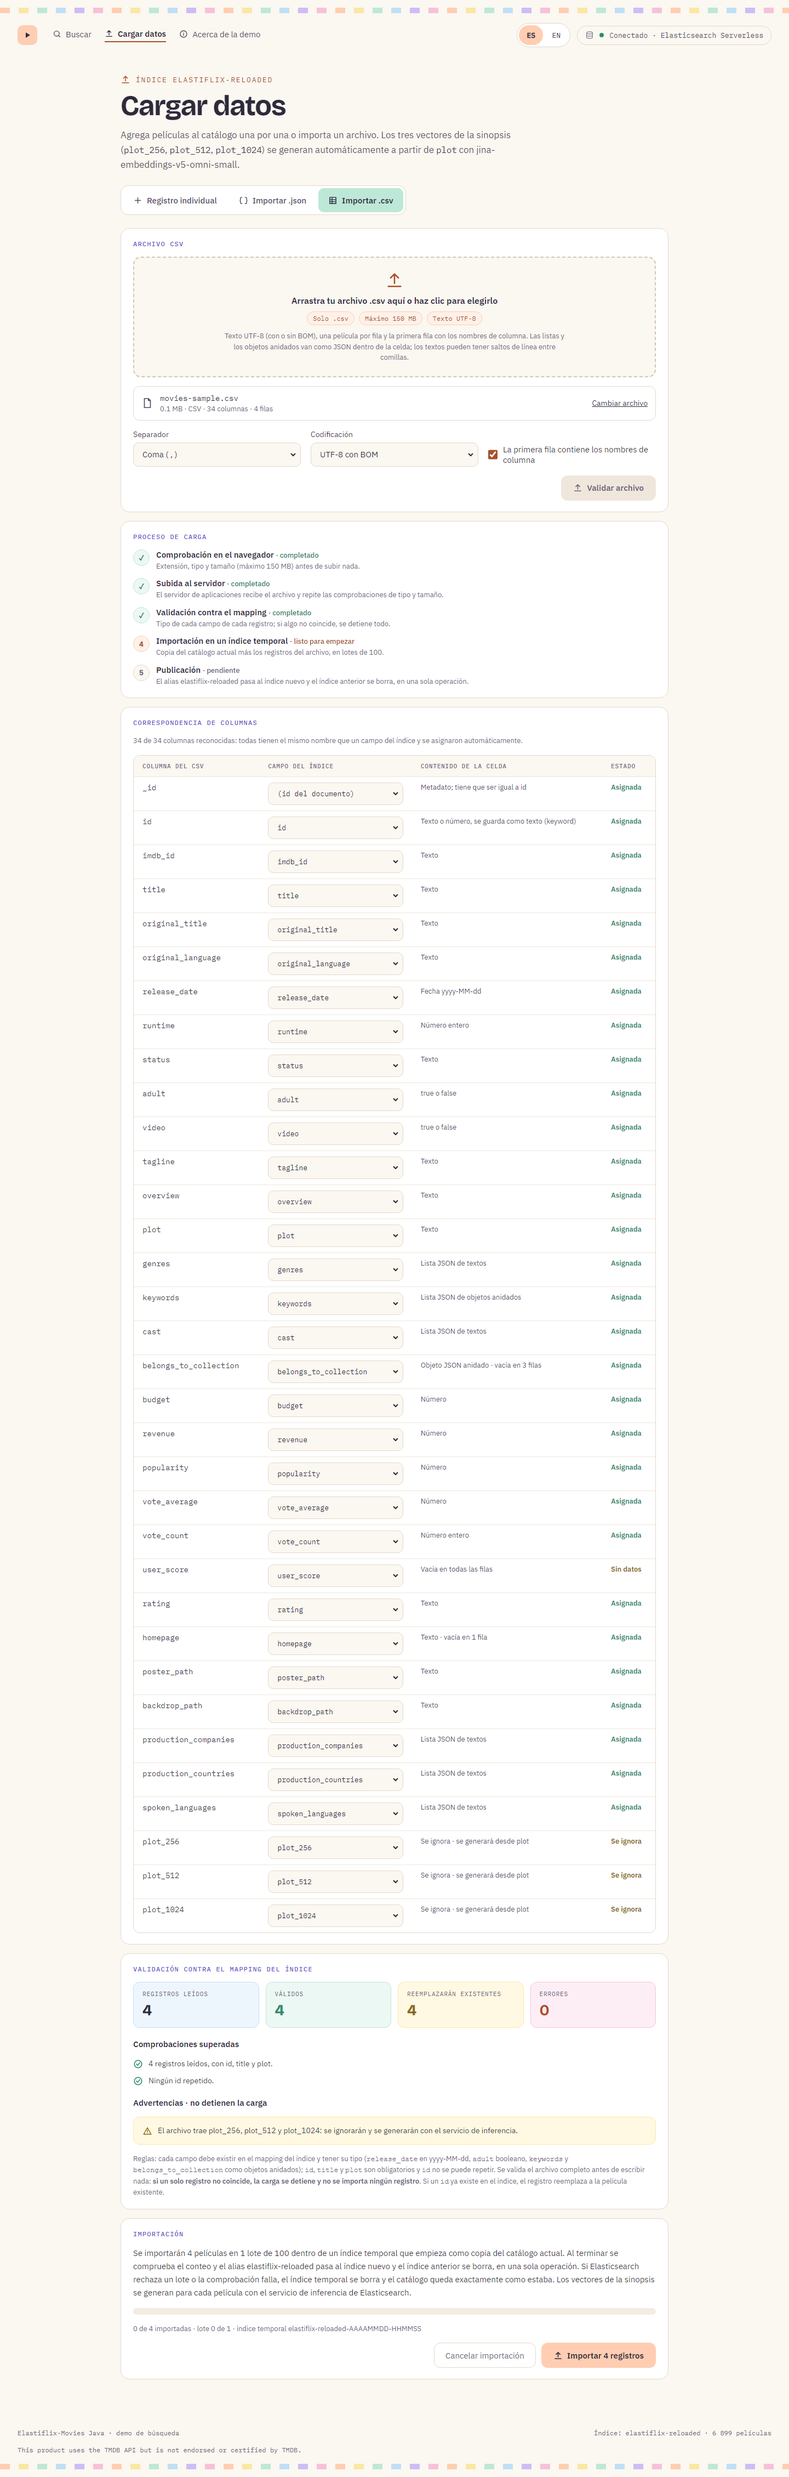
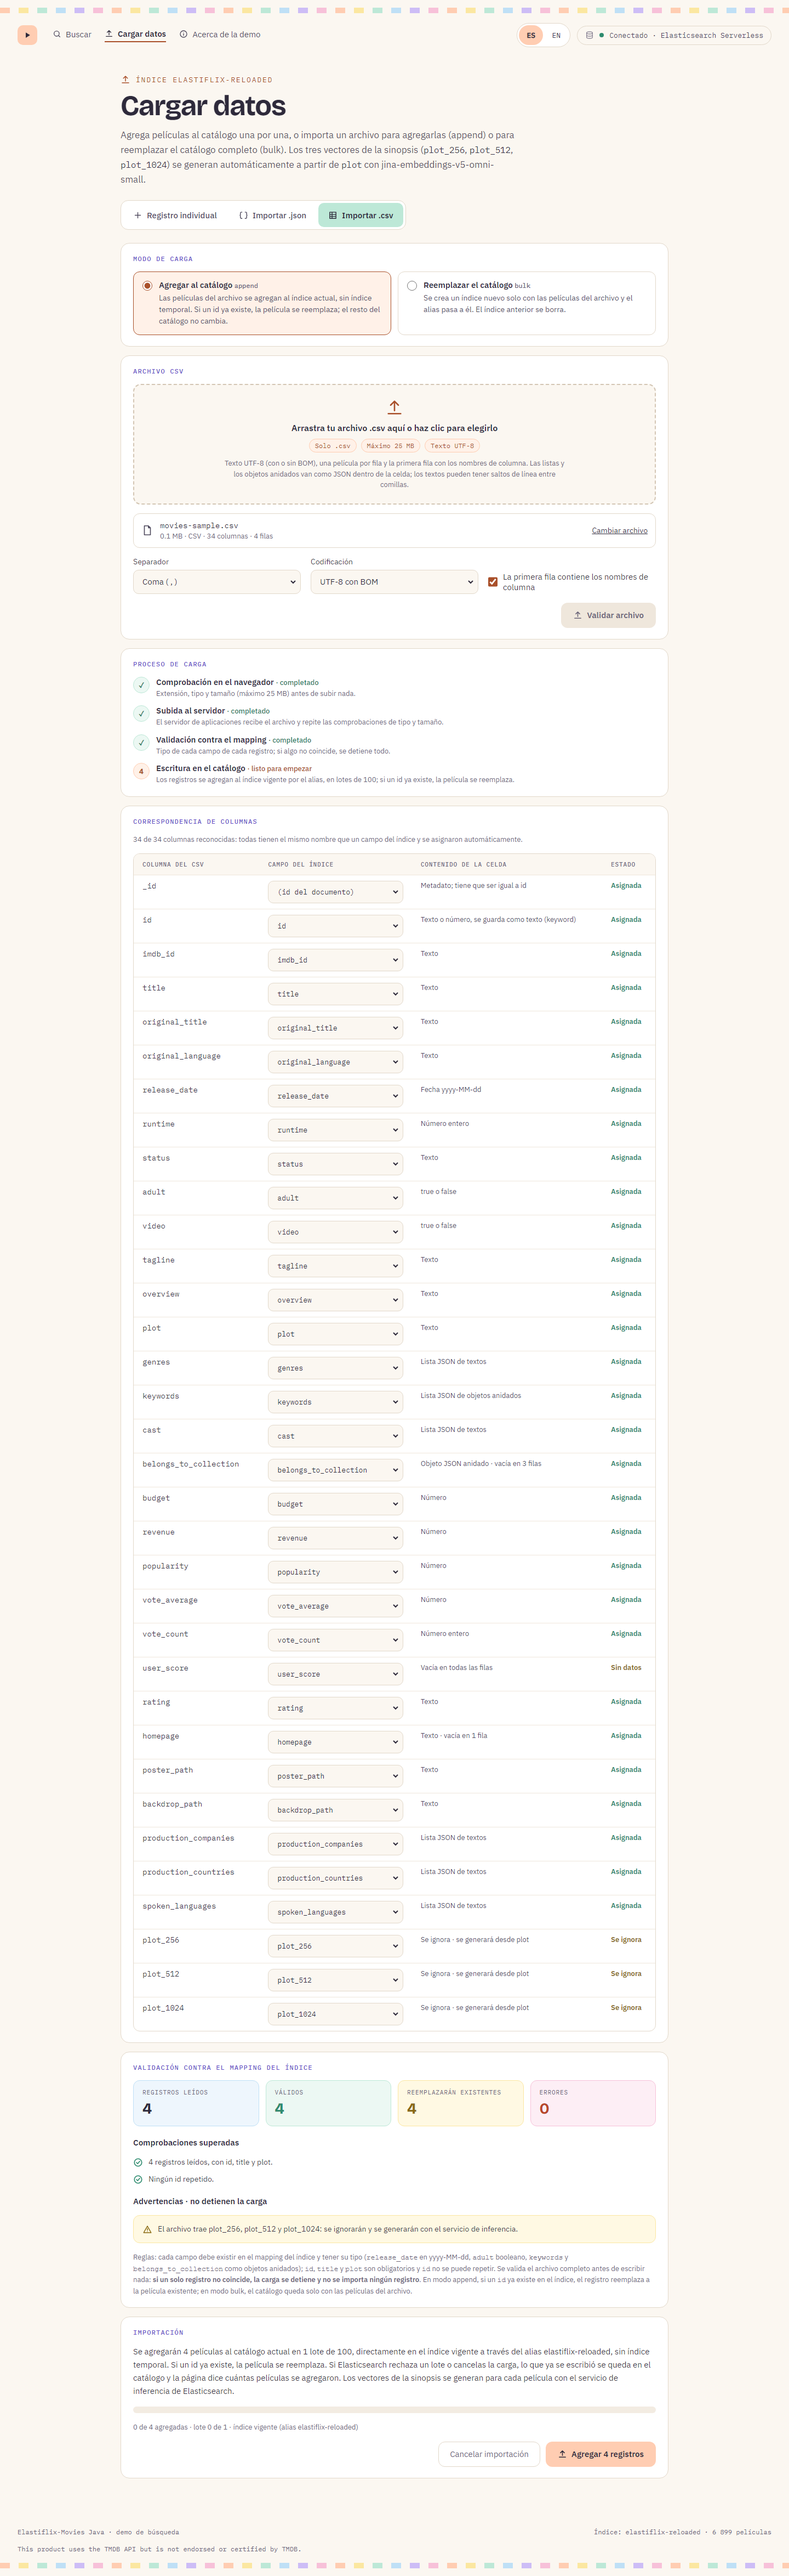
docs: capturas de «Cargar datos» con el modo de carga y dos textos del mockup que faltaban
La nota «Reglas» dice qué pasa en cada modo y un archivo bloqueado dice
«0 de N importadas» también en append, como el mockup.

Changed region(s): [[0.1562, 0.0, 0.8438, 0.9677], [0.7812, 0.3122, 0.8125, 0.7804], [0.6875, 0.1873, 0.8438, 0.2497]]

diff --git a/elastiflix-web/src/test/java/com/bigfito/elastiflix/web/ingest/IngestPageTest.java b/elastiflix-web/src/test/java/com/bigfito/elastiflix/web/ingest/IngestPageTest.java
@@ -187,6 +187,23 @@ class IngestPageTest {
     }
 
     @Test
+    @DisplayName("un archivo bloqueado dice «0 de N importadas» también en append, y las reglas nombran los dos modos")
+    void shouldUseTheSameBlockedTextsInBothModes() throws Exception {
+        when(ingest.job(JOB)).thenReturn(job("append", "invalido", "csv", 512, 17, 23, List.of(), List.of(), "", ""));
+
+        mvc.perform(get("/cargar/trabajos/" + JOB))
+                .andExpect(jsonPath("$.texts.progressText").value("0 de 512 importadas"))
+                .andExpect(jsonPath("$.texts.importLabel").value("Importación bloqueada"));
+        mvc.perform(get("/cargar"))
+                .andExpect(content().string(containsString("En modo append, si un <code>id</code> ya existe en el "
+                        + "índice, el registro reemplaza a la película existente; en modo bulk, el catálogo queda solo "
+                        + "con las películas del archivo.")));
+        mvc.perform(get("/cargar").param("lang", "en"))
+                .andExpect(content().string(containsString("in bulk mode, the catalog keeps only the movies in the "
+                        + "file.")));
+    }
+
+    @Test
     @DisplayName("append detenido o terminado: la página dice cuántas se agregaron de cuántas")
     void shouldSayHowManyWereAddedWhenTheAppendEnds() throws Exception {
         when(ingest.job(JOB)).thenReturn(appendEnded("cancelado", 200, "EFX-IMP-009"));

diff --git a/elastiflix-web/src/main/java/com/bigfito/elastiflix/web/ingest/JobTexts.java b/elastiflix-web/src/main/java/com/bigfito/elastiflix/web/ingest/JobTexts.java
@@ -150,11 +150,11 @@ public record JobTexts(
         }
 
         String progressText(String alias) {
+            if (INVALID.equals(job.status())) {
+                return msg("ingest.job.progress.done", number(job.written()), number(job.fileCount()));
+            }
             String suffix = append() ? ".append" : "";
             String done = msg("ingest.job.progress.done" + suffix, number(job.written()), number(job.fileCount()));
-            if (INVALID.equals(job.status())) {
-                return done;
-            }
             String target = append() || !job.tempIndex().isEmpty()
                     ? targetOf(alias) : alias + "-AAAAMMDD-HHMMSS";
             return msg("ingest.job.progress.running" + suffix, done,

diff --git a/progreso/INDICE.md b/progreso/INDICE.md
@@ -13,8 +13,8 @@
 - **Diseño:** [`docs/diseno/10.md`](../docs/diseno/10.md)
 - **Estado:** [`progreso/10.md`](10.md)
 - **Tarea actual:** ninguna
-- **Próximo paso:** no hay requerimientos pendientes en PLAN; queda por decidir con Adolfo si se vuelven a tomar las capturas de «Cargar datos» (`docs/capturas/`), que todavía no muestran la tarjeta «Modo de carga».
-- **Última actualización:** 2026-10-21 22:01 UTC
+- **Próximo paso:** que Adolfo apruebe las 6 capturas nuevas de «Cargar datos» (`docs/capturas/cargar-*.png`); no hay requerimientos pendientes en PLAN.
+- **Última actualización:** 2026-10-21 22:05 UTC
 
 ## Fases
 
@@ -96,6 +96,7 @@
 | 2026-10-21 | Cierre y fusión de la Fase 9 (Requerimiento 3: archivos de hasta 25 MB) | Adolfo pidió «Sí, abre el PR de fase-9-25mb, fusiónalo en main, deja local y remoto al día y borra la rama.». PR #27 fusionado con el merge commit `1047a65` a las 21:11 UTC; la rama `fase-9-25mb` se borró en local y en el remoto. `./mvnw clean verify -Pit` en verde (637 unitarias y 32 de integración) y navegador 19 de 19 antes de fusionar. |
 | 2026-10-21 | Inicio del Requerimiento 4 (Fase 10) | Adolfo pidió «Continua con el requerimiento 4.» después de fusionar la fase 9: es su consentimiento explícito para arrancar (PLAN › «Requerimientos nuevos»). Rama `fase-10-modos`; diseño `docs/diseno/10.md`, sin compuerta 🔒. Los mockups del requerimiento ya estaban aprobados (2026-10-19). |
 | 2026-10-21 | Cierre y fusión de la Fase 10 (Requerimiento 4: carga en modo append o bulk) | Adolfo pidió «Sí, abre el PR de fase-10-modos, fusiónalo en main, deja local y remoto al día y borra la rama.» PR #28 fusionado con el merge commit `520768a` a las 22:01 UTC; la rama `fase-10-modos` se borró en local y en el remoto. `./mvnw clean verify -Pit` en verde (670 unitarias y 35 de integración) y navegador 24 de 24 antes de fusionar. |
+| 2026-10-21 | Capturas de «Cargar datos» con el modo de carga | Adolfo pidió «Sí, vuelve a tomar las capturas de «Cargar datos» en español e inglés con la tarjeta de modo.» Se tomaron las 6 (registro, CSV válido y CSV que no coincide, en los dos idiomas) con el catálogo real; de paso se corrigieron dos textos del mockup que faltaban (nota «Reglas» por modo y «0 de N importadas» con el archivo bloqueado). Las capturas esperan su aprobación. |
 
 
 ## Catálogo vigente

diff --git a/progreso/10.md b/progreso/10.md
@@ -20,8 +20,8 @@ terminado y fusionado en `main` (PR #28, merge `520768a`, 2026-10-21 22:01 UTC)
 
 - **Tarea actual:** ninguna; la fase 10 está cerrada
 - **Subpaso en curso:** ninguno
-- **Próximo paso:** no hay requerimientos pendientes en PLAN; queda por decidir con Adolfo si se vuelven a tomar las capturas de «Cargar datos» (`docs/capturas/`), que todavía no muestran la tarjeta «Modo de carga»
-- **Última actualización:** 2026-10-21 22:01 UTC
+- **Próximo paso:** que Adolfo apruebe las 6 capturas nuevas de «Cargar datos» (`docs/capturas/cargar-*.png`); no hay requerimientos pendientes en PLAN
+- **Última actualización:** 2026-10-21 22:05 UTC
 
 ## Tareas
 
@@ -61,6 +61,14 @@ Vacío.
 
 - 2026-10-21 22:01 UTC: Adolfo pidió «Sí, abre el PR de fase-10-modos, fusiónalo en main, deja local y remoto al día y borra la rama.» PR #28 fusionado con el merge commit `520768a`; la rama
   `fase-10-modos` se borró en local y en el remoto.
+
+- 2026-10-21 22:05 UTC: Adolfo pidió «Sí, vuelve a tomar las capturas de «Cargar datos» en español e inglés con la tarjeta de modo.» Con el jar de `main` en el puerto
+  8091, conectado al catálogo real (6 899 películas, solo lectura: se valida y no se importa), y ventana de
+  1440 px: `cargar-registro`, `cargar-csv-valido` y `cargar-csv-invalido`, en español e inglés. Al compararlas
+  con el mockup aparecieron dos textos que la tarea 10.3 no había cambiado: la nota «Reglas» ahora dice qué pasa
+  en cada modo, y un archivo bloqueado dice «0 de N importadas» también en append (como el mockup). Se
+  corrigieron en el mismo commit, con su prueba en `IngestPageTest` (`./mvnw -pl elastiflix-web install`:
+  279 pruebas, Checkstyle 0, PMD 0), y las capturas se volvieron a tomar. Esperan la aprobación de Adolfo.
 
 ## Resumen de diseño
 
@@ -103,4 +111,4 @@ Respuestas a `docs/convenciones-java.md` §16:
 
 ## Bloqueos y solicitudes
 
-Vacío.
+Las 6 capturas nuevas de «Cargar datos» (`docs/capturas/cargar-*.png`) esperan la aprobación de Adolfo.

diff --git a/README.md b/README.md
@@ -463,7 +463,9 @@ Cada pantalla tiene su versión en inglés (`<Página>-en.dc.html`); la traducci
 
 Capturas de página completa con la aplicación conectada al catálogo real (6 899 películas), en español y en
 inglés; el pie muestra su conteo. Se tomaron el 2026-10-21 en la revisión 4 (ventana de 1440 px, Chromium con
-Playwright 1.49.1); Adolfo las aprobó el 2026-10-21. La comparación anterior con los mockups está en
+Playwright 1.49.1); Adolfo las aprobó el 2026-10-21. Las tres de «Cargar datos» (en los dos idiomas) se volvieron
+a tomar el 2026-10-21 al cerrar la fase 10, con la tarjeta «Modo de carga» en append y los textos de los dos
+modos; esas seis esperan la aprobación de Adolfo. La comparación anterior con los mockups está en
 [`progreso/4.md`](progreso/4.md).
 
 | Página | Español | English |
